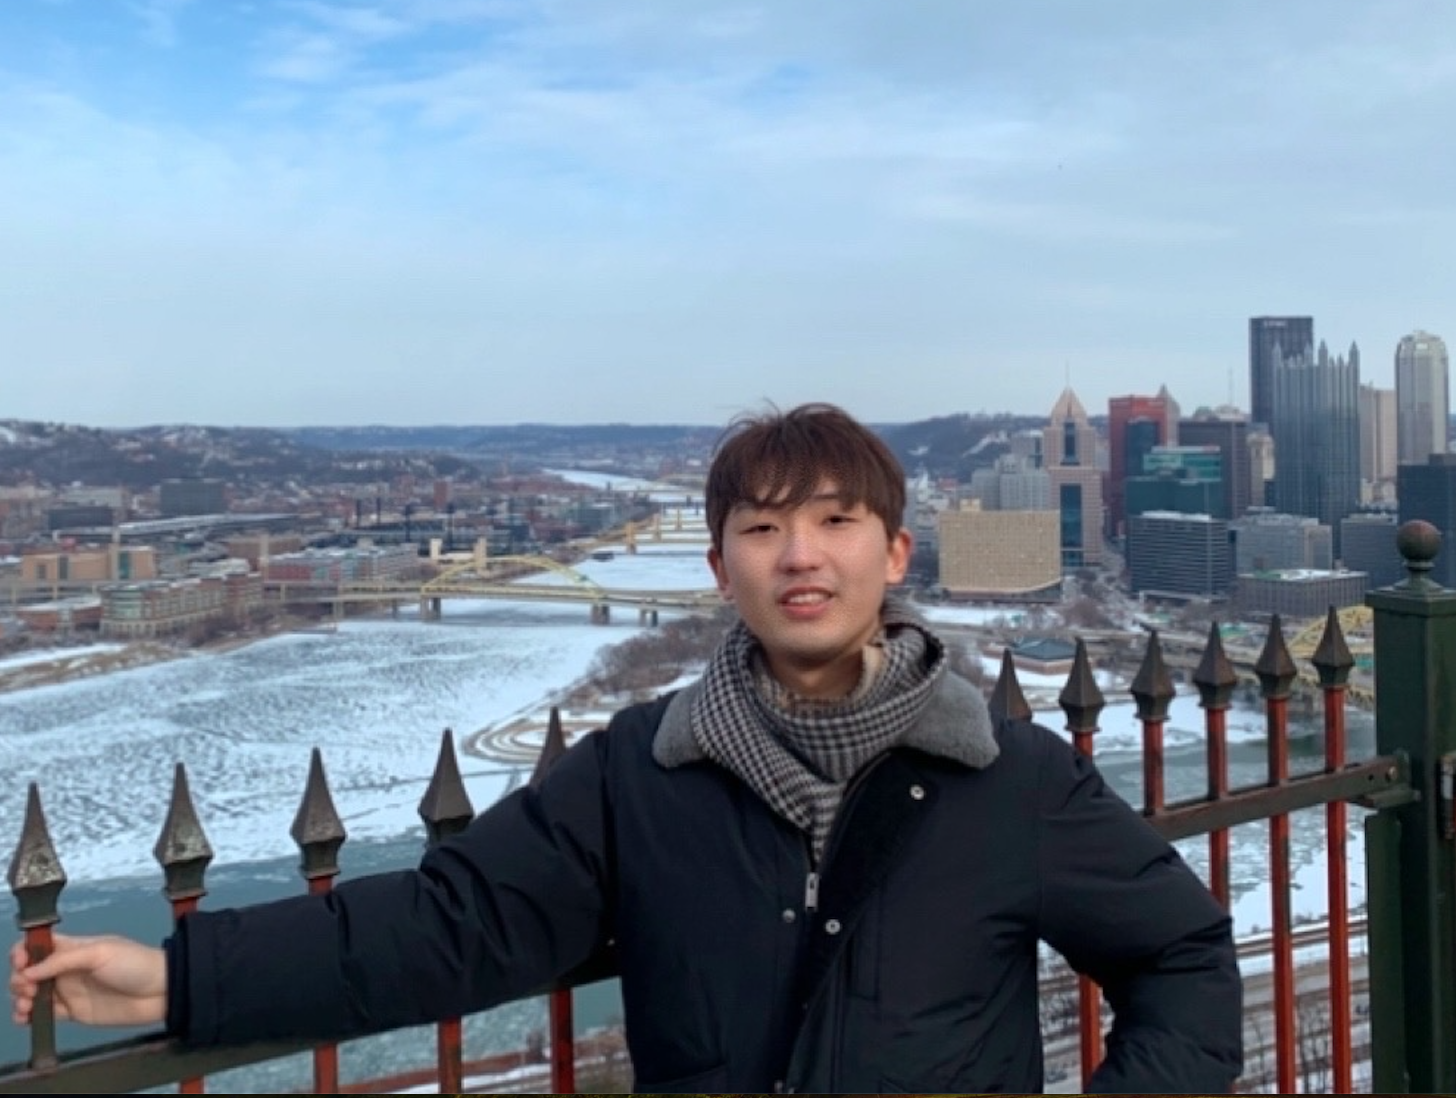
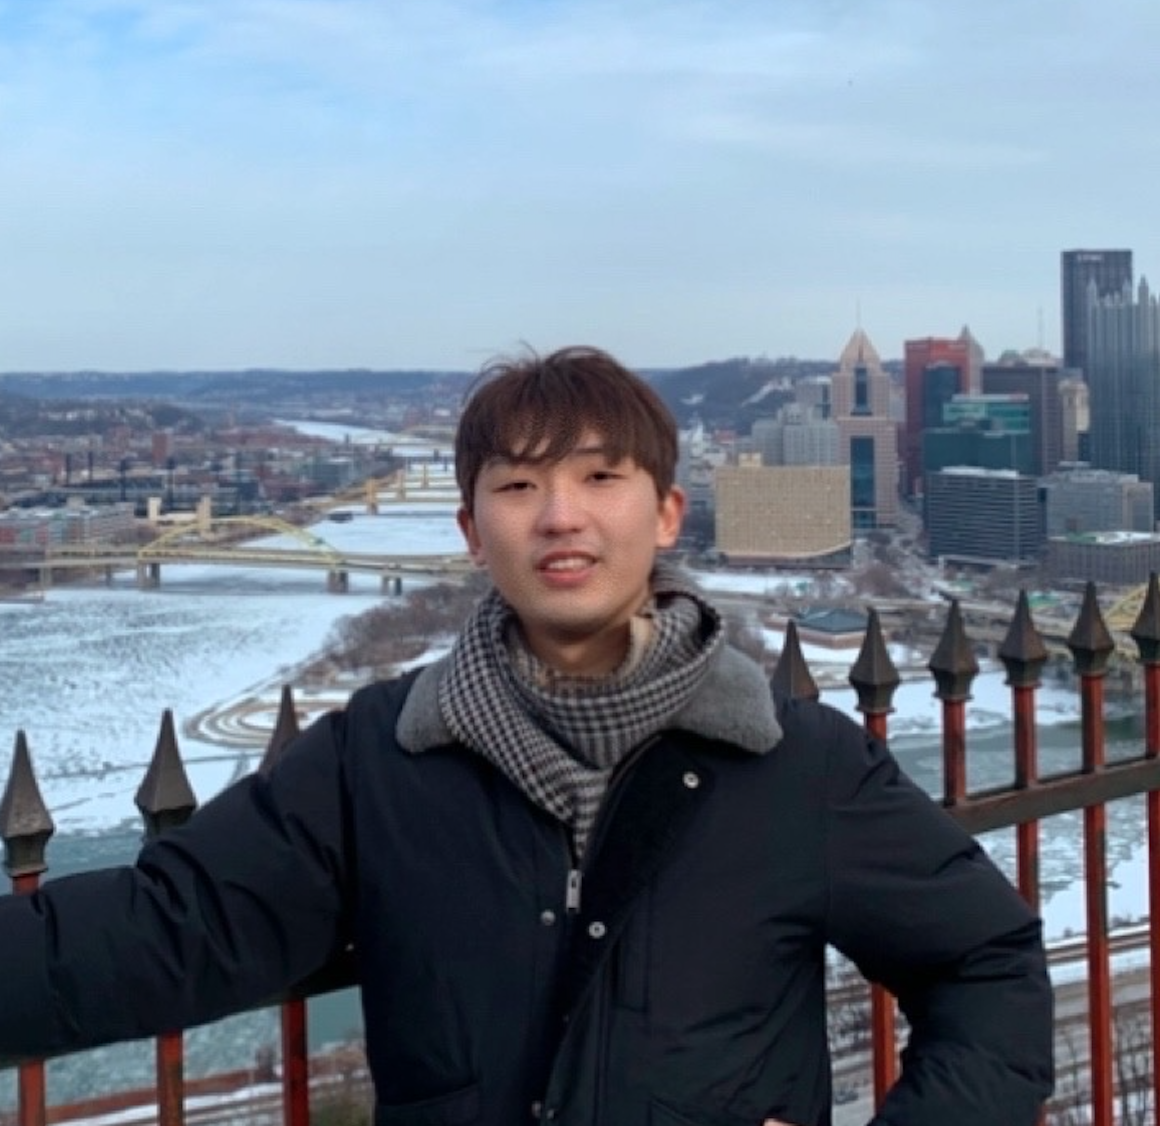
profile pic w,h ratio change

diff --git a/index.html b/index.html
@@ -51,7 +51,7 @@
               </p>
             </td>
             <td style="padding:2.5%;width:40%;max-width:40%">
-              <a href=""><img style="width:80%;max-width:100%" width="265" height="200" alt="profile photo" src="images/profile2025.png" class="hoverZoomLink"></a>
+              <a href=""><img style="width:80%;max-width:100%" width="206" height="200" alt="profile photo" src="images/profile2025.png" class="hoverZoomLink"></a>
             </td>
           </tr>
         </tbody></table>
